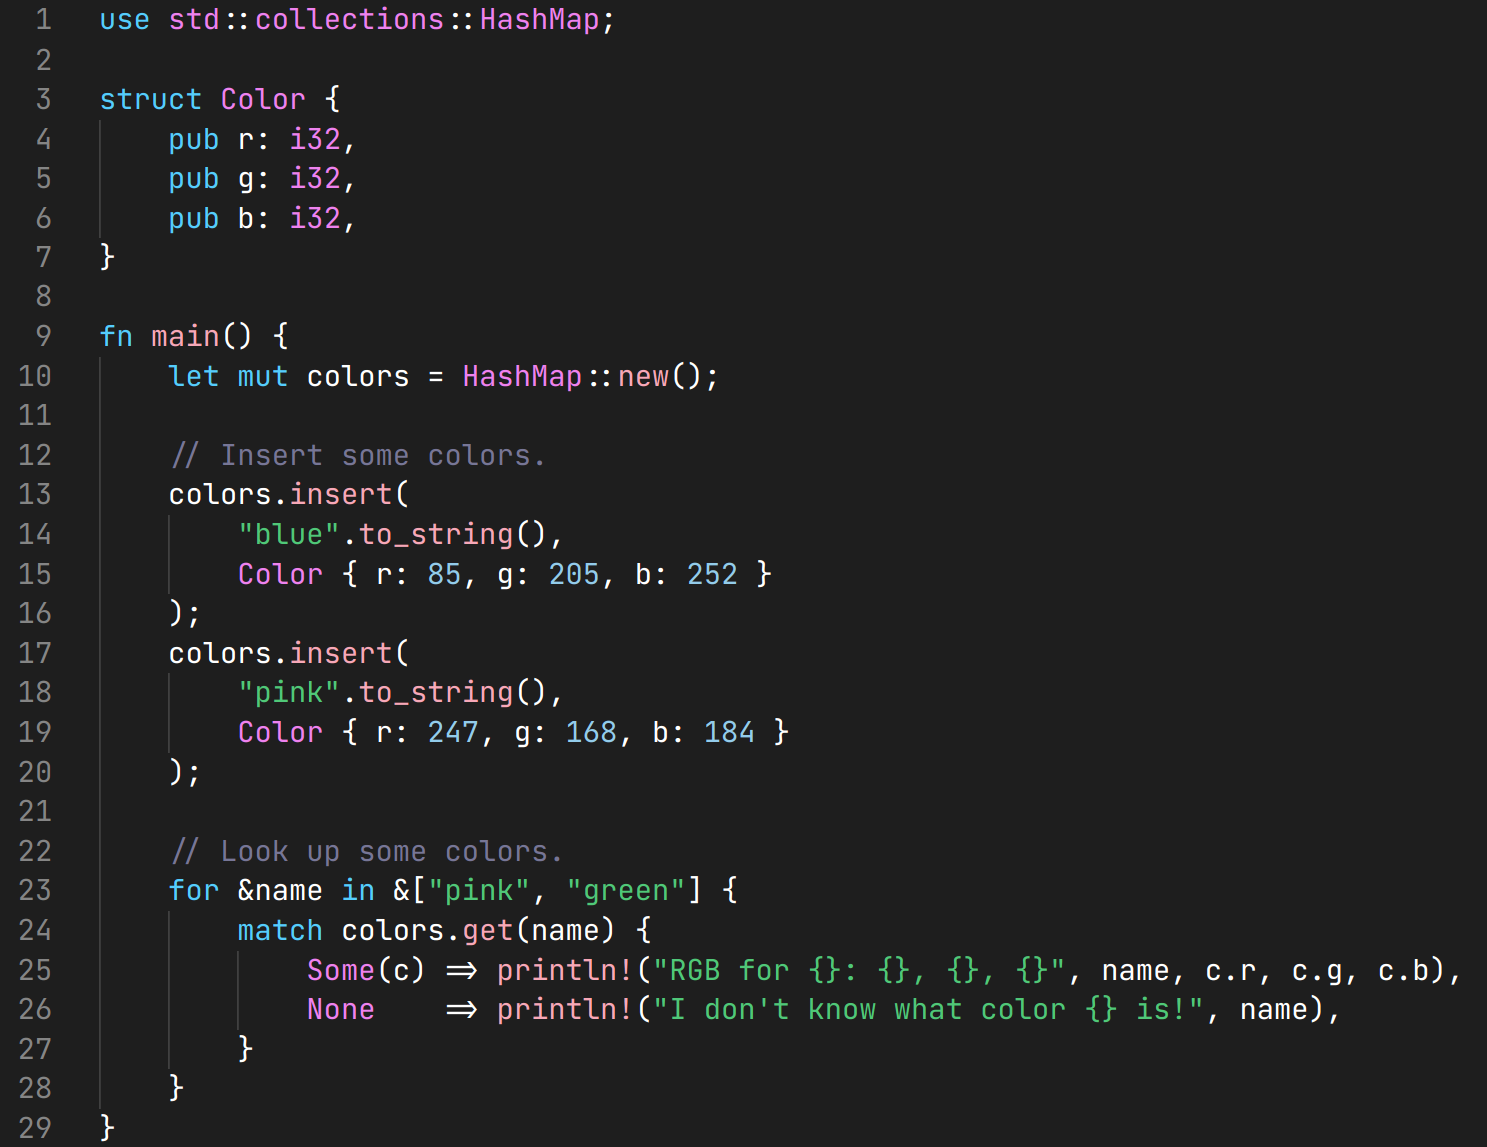
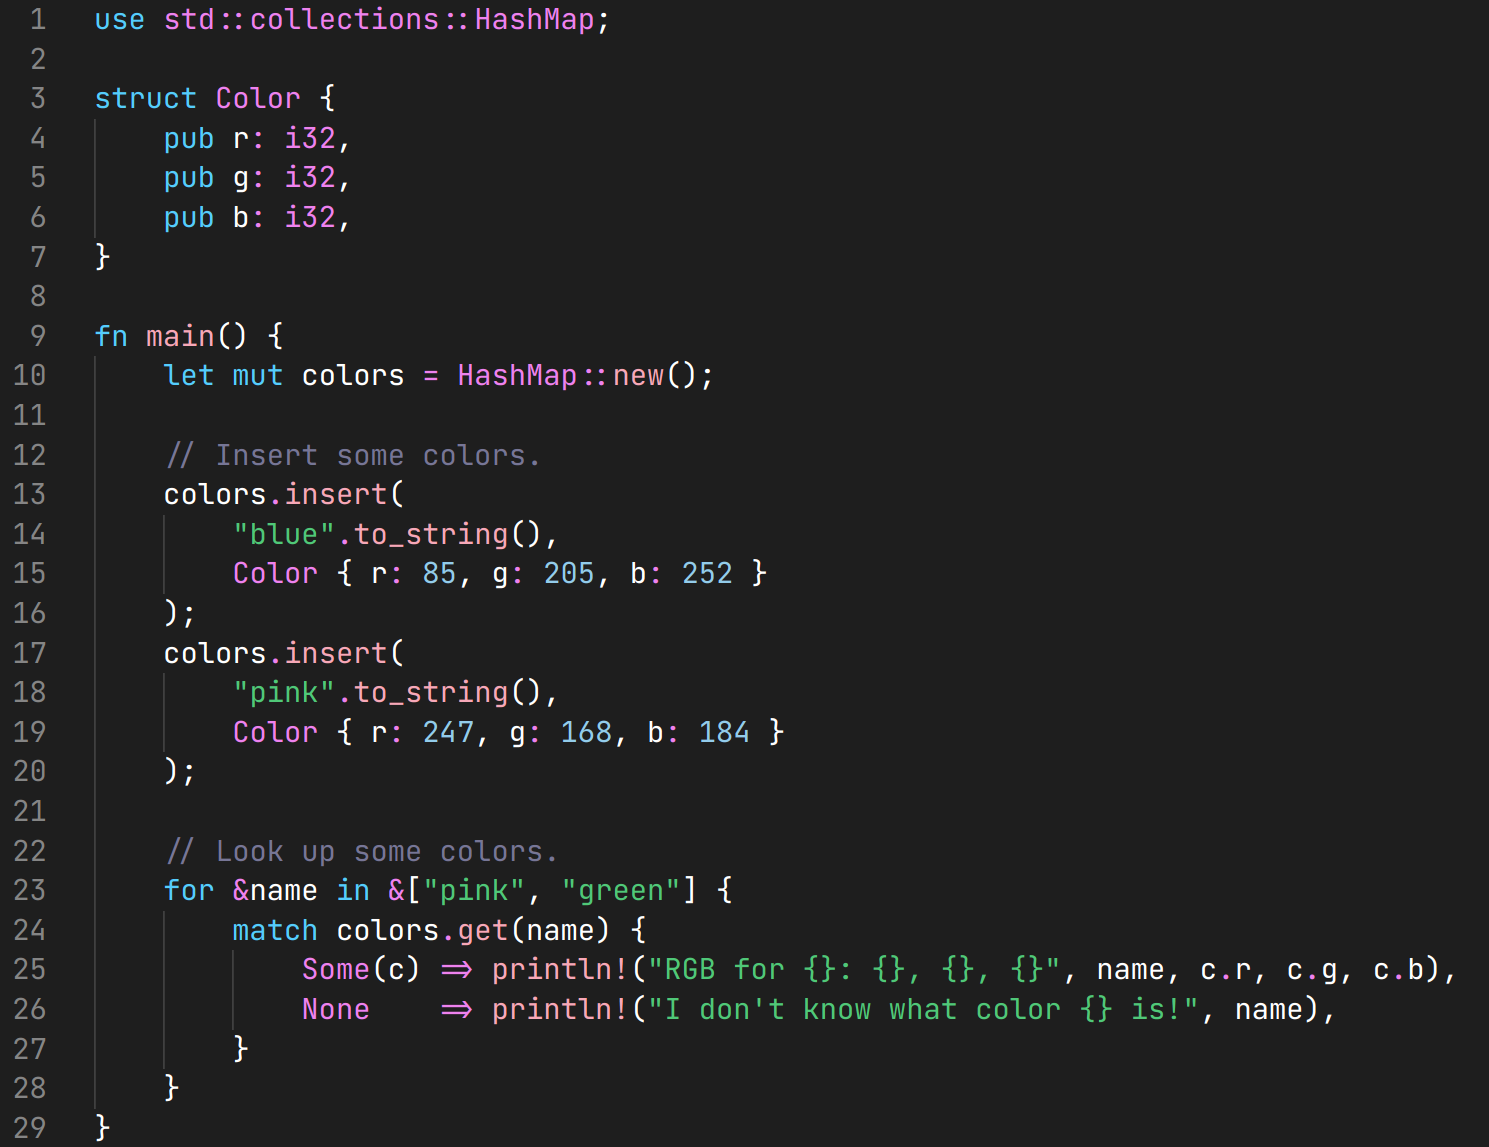
v0.4.0

diff --git a/README.md b/README.md
@@ -3,11 +3,11 @@ Themes based on pride flags.
 Suggestions and contributions for other flags are welcome: https://github.com/ruby0b/vscode-pride-themes
 
 ## Trans Pride Dark
-![Trans Pride Dark Theme](https://raw.githubusercontent.com/ruby0b/vscode-pride-themes/master/examples/trans-pride-dark.png)
+![Trans Pride Dark Theme](https://raw.githubusercontent.com/ruby0b/vscode-pride-themes/main/examples/trans-pride-dark.png)
 
 ## Trans Pride Light
 This one might not be legible enough as it's using the exact same colors as the dark theme for now.
-![Trans Pride Light Theme](https://raw.githubusercontent.com/ruby0b/vscode-pride-themes/master/examples/trans-pride-light.png)
+![Trans Pride Light Theme](https://raw.githubusercontent.com/ruby0b/vscode-pride-themes/main/examples/trans-pride-light.png)
 
 ## Non-Binary Pride Dark
-![Non-Binary Pride Dark Theme](https://raw.githubusercontent.com/ruby0b/vscode-pride-themes/master/examples/non-binary-dark.png)
+![Non-Binary Pride Dark Theme](https://raw.githubusercontent.com/ruby0b/vscode-pride-themes/main/examples/non-binary-pride-dark.png)

diff --git a/CHANGELOG.md b/CHANGELOG.md
@@ -1,5 +1,10 @@
 # Change Log
 
+## [0.4.0]
+- make operators more colorful
+- decorators are now consistently themed
+- fix constants having inconsistent colors
+
 ## [0.3.0]
 - add Non-Binary Pride Dark theme
 
@@ -10,6 +15,5 @@
 - better support for regexps and numerals
 
 ## [0.0.1]
-
 - initial release
 - add Trans Pride Dark theme
